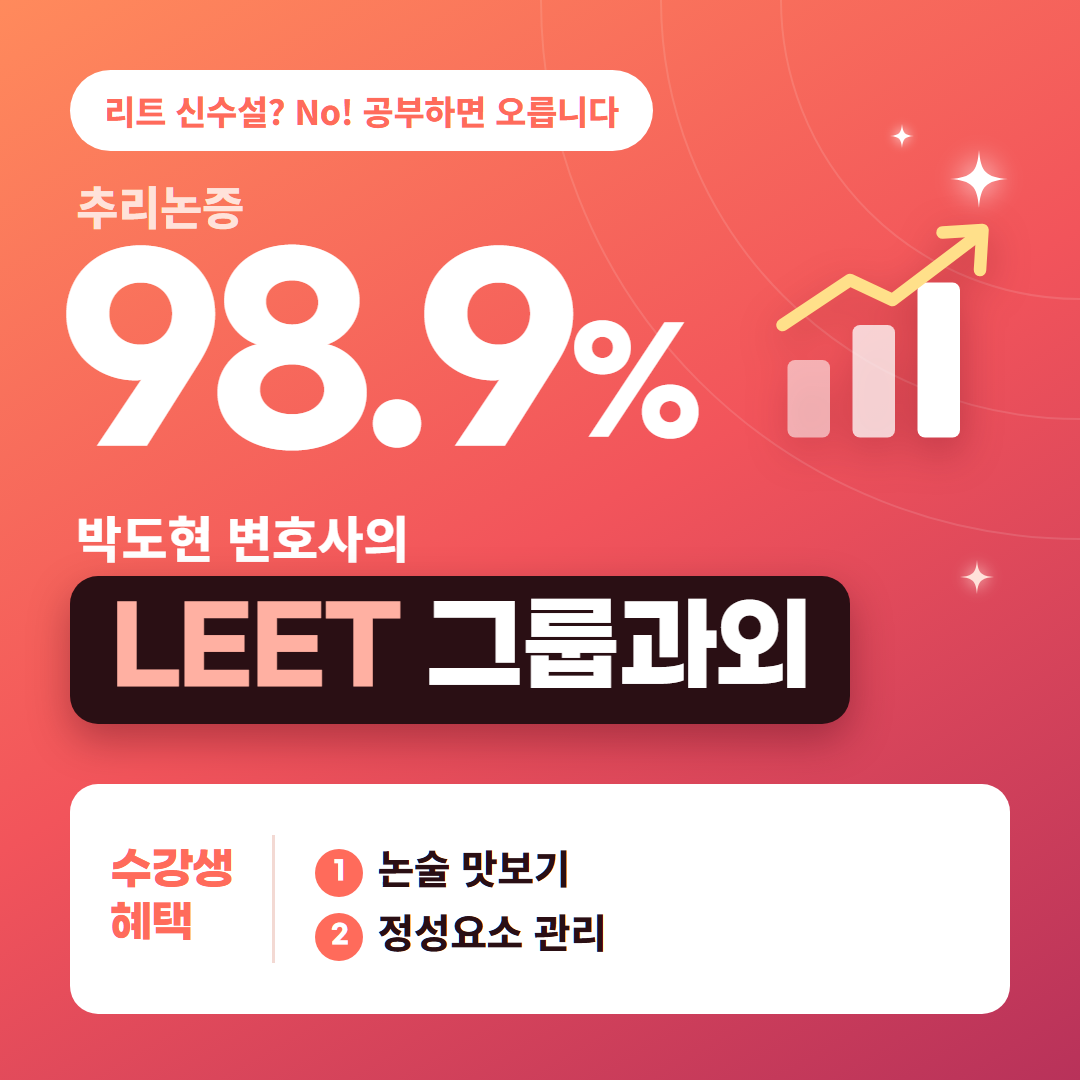
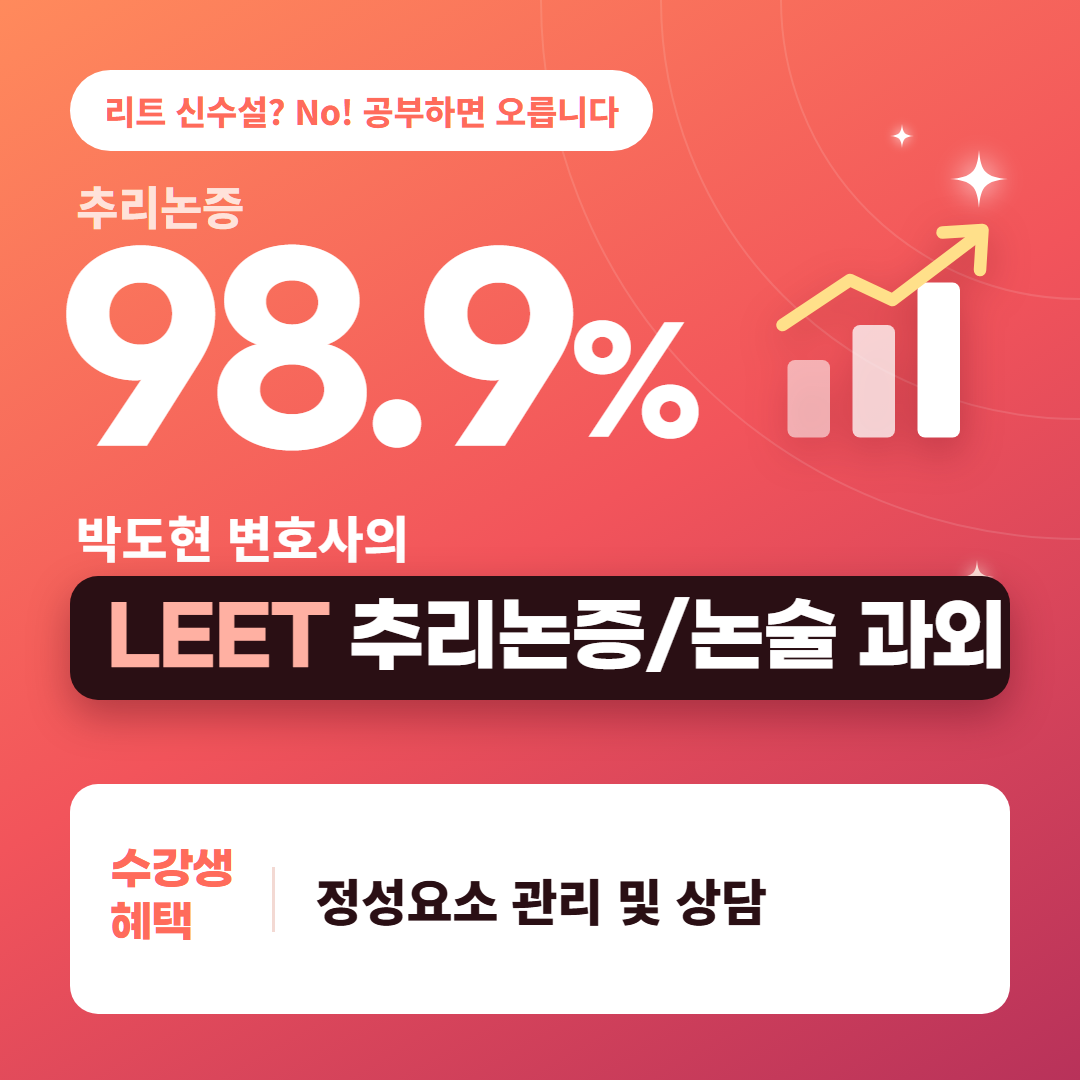
배너 문구 수정분 반영(면접 제보·입시 결과·LEET 과외·멘토링)

Changed region(s): [[0.0611, 0.5194, 0.9472, 0.7028], [0.275, 0.7639, 0.7028, 0.8861]]

diff --git a/js/config.js b/js/config.js
@@ -46,7 +46,7 @@ window.SITE_CONFIG = {
   banners: [
     { key: 'interview',  alt: '면접 문제 제보 — 가·나군 면접 응시생 리워드 증정', url: 'https://forms.cloud.microsoft/r/9hYfptwVrL' },
     { key: 'result',     alt: '로스쿨 입시 결과 제보 EVENT', url: 'https://cafe.daum.net/lsinfo/nafW/79' },
-    { key: 'leet',       alt: '박도현 변호사의 LEET 그룹과외', url: 'https://cafe.daum.net/lsinfo/nafW/80' },
+    { key: 'leet',       alt: '박도현 변호사의 LEET 추리논증·논술 과외', url: 'https://cafe.daum.net/lsinfo/nafW/80' },
     { key: 'civil',      alt: '박도현 변호사의 민법 사례형 클리닉(온라인)', url: 'https://cafe.daum.net/lsinfo/nafW/81' },
     { key: 'mentoring',  alt: '로스쿨 생활 멘토링 특강', url: '' },
     { key: 'supporters', alt: '재학생 서포터스 모집', url: '' }
